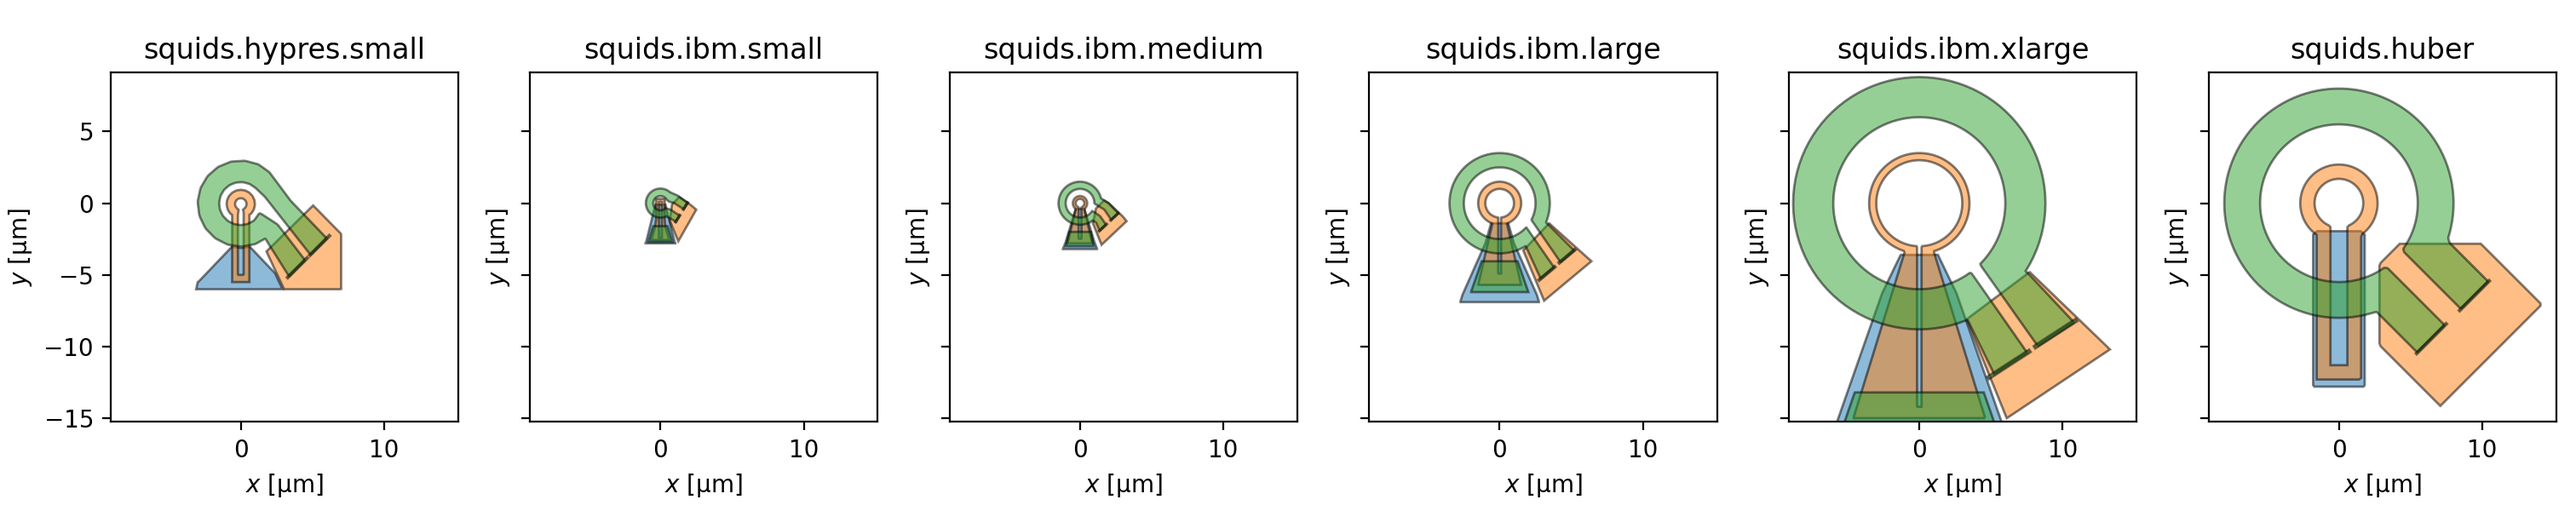
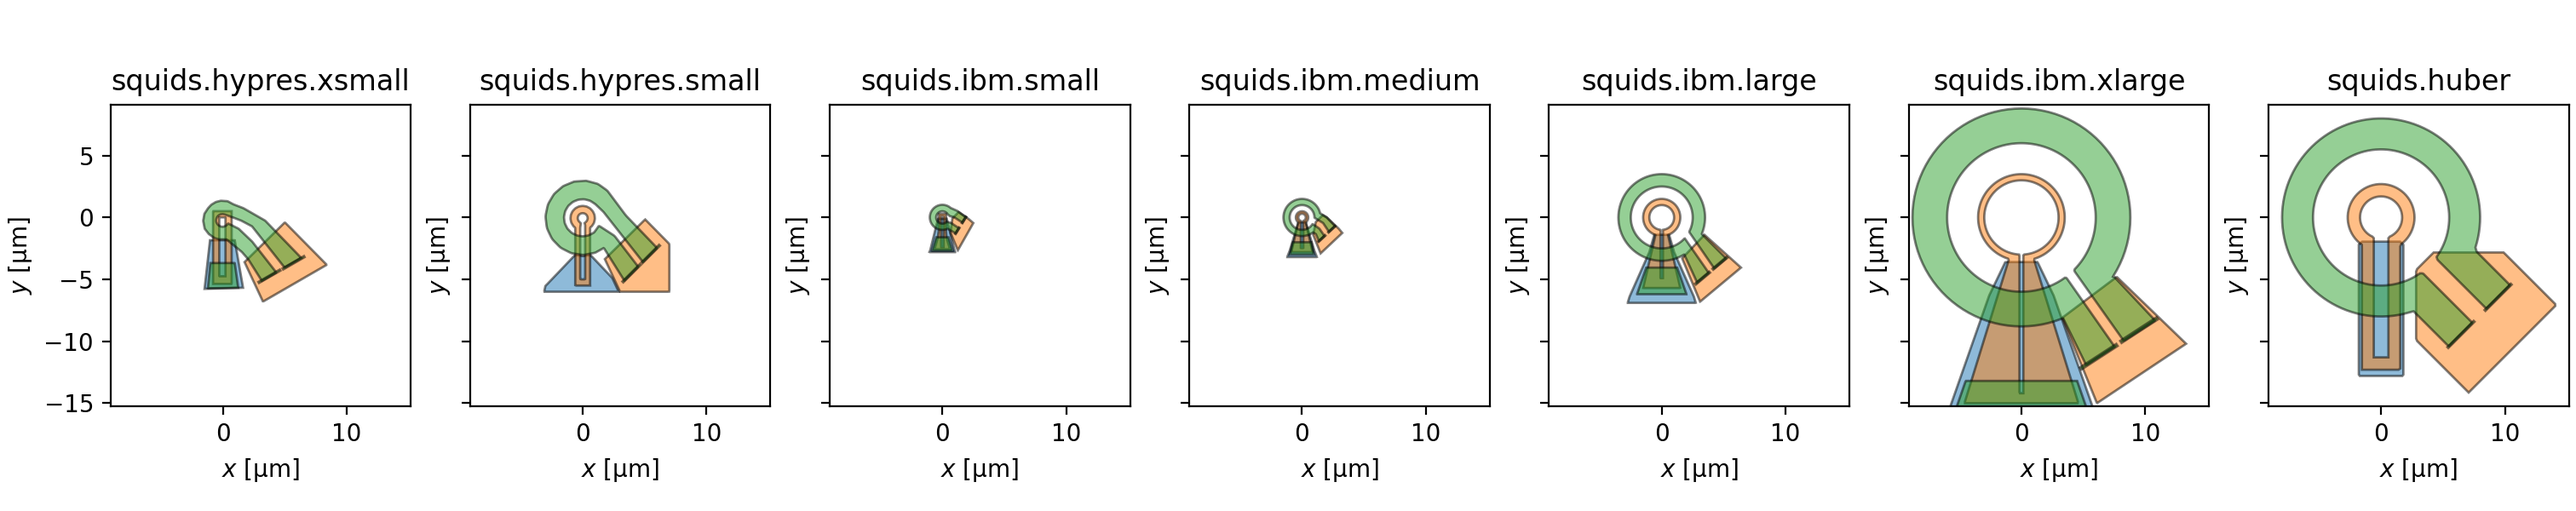
Add hypres.xsmall (0.25 micron) inner radius

diff --git a/squids/hypres/xsmall.py b/squids/hypres/xsmall.py
@@ -1,0 +1,88 @@
+import numpy as np
+import superscreen as sc
+from superscreen.geometry import box, close_curve
+
+from .layers import hypres_squid_layers
+
+
+def make_squid(with_terminals: bool = True, align_layers: str = "middle"):
+    layers = hypres_squid_layers(align=align_layers)
+    layer_mapping = {
+        "fc": "BE",
+        "fc_center": "BE",
+        "fc_shield": "W1",
+        "pl": "W1",
+        "pl_center": "W1",
+        "pl_shield": "W2",
+        "pl_shield2": "BE",
+    }
+
+    with np.load("squids/hypres/hypres-250nm.npz") as f:
+        polygons = dict(f)
+
+    films = {
+        name: polygons[name]
+        for name in ["fc", "fc_shield", "pl", "pl_shield", "pl_shield2"]
+    }
+    holes = {
+        "pl_center": np.array(
+            [
+                [0.2, -4.75],
+                [0.2, 0.01],
+                [-0.3, 0.01],
+                [-0.3, -4.75],
+                [0.2, -4.75],
+            ]
+        ),
+    }
+    films["pl"] = films["pl"][np.abs(films["pl"][:, 1]) > 0.05]
+    fc = sc.Polygon(points=polygons["fc"])
+    fc = fc.intersection(sc.Polygon(points=box(12)).rotate(30))
+    fc_points = np.roll(fc.points, -1, axis=0)
+    mask = np.ones(len(fc_points), dtype=bool)
+
+    if not with_terminals:
+        mask[4:27] = False
+        holes["fc_center"] = close_curve(fc_points[~mask])
+        holes["fc_center"][[0, -1], :] = (3.9, -3.92)
+        holes["fc_center"][-2, :] = (4.55, -3.5)
+    films["fc"] = close_curve(fc_points[mask])
+
+    fc_shield = sc.Polygon(points=films["fc_shield"])
+    fc_shield = fc_shield.intersection(sc.Polygon(points=box(15)).rotate(30))
+    films["fc_shield"] = fc_shield.points
+
+    films = {name: sc.Polygon(name, points=poly) for name, poly in films.items()}
+    holes = {name: sc.Polygon(name, points=poly) for name, poly in holes.items()}
+
+    terminals = None
+    if with_terminals:
+        terminals = {
+            "fc": [
+                sc.Polygon("source", points=box(2, 0.1))
+                .rotate(30)
+                .translate(dx=5.7, dy=-3.66),
+                sc.Polygon("drain", points=box(2, 0.1))
+                .rotate(30)
+                .translate(dx=3.75, dy=-4.75),
+            ],
+        }
+
+    for name, poly in films.items():
+        poly.layer = layer_mapping[name]
+        if with_terminals and name == "fc":
+            poly.points = poly.resample(401)
+        else:
+            poly.points = poly.resample(201)
+    for name, poly in holes.items():
+        poly.layer = layer_mapping[name]
+        poly.points = poly.resample(201)
+
+    return sc.Device(
+        "hypres_250nm",
+        layers=layers,
+        films=list(films.values()),
+        holes=list(holes.values()),
+        terminals=terminals,
+        length_units="um",
+    )

diff --git a/squids/mutuals.py b/squids/mutuals.py
@@ -25,6 +25,7 @@ if __name__ == "__main__":
     args = parser.parse_args()
 
     squid_funcs = {
+        "hypres-xsmall": hypres.xsmall.make_squid,
         "hypres-small": hypres.small.make_squid,
         "ibm-small": ibm.small.make_squid,
         "ibm-medium": ibm.medium.make_squid,
@@ -34,6 +35,7 @@ if __name__ == "__main__":
     }
 
     max_edge_lengths = {
+        "hypres-xsmall": 0.2,
         "hypres-small": 0.2,
         "ibm-small": 0.1,
         "ibm-medium": 0.1,

diff --git a/squids/show_all.py b/squids/show_all.py
@@ -22,6 +22,7 @@ if __name__ == "__main__":
     args = parser.parse_args()
 
     squid_funcs = [
+        hypres.xsmall.make_squid,
         hypres.small.make_squid,
         ibm.small.make_squid,
         ibm.medium.make_squid,

diff --git a/squids/hypres/__init__.py b/squids/hypres/__init__.py
@@ -1,1 +1,1 @@
-from . import layers, small
+from . import layers, small, xsmall

diff --git a/README.md b/README.md
@@ -35,39 +35,45 @@ python -m squids.mutuals
 Output:
 
 ```
+squids.hypres.xsmall
+--------------------
+197.47303402347075 magnetic_flux_quantum / ampere
+0.40834142391220707 picohenry
+-------------------------------------------------
+
 squids.hypres.small
 -------------------
-285.50878980023543 magnetic_flux_quantum / ampere
-0.590384739582329 picohenry
--------------------------------------------------
+297.8883597846232 magnetic_flux_quantum / ampere
+0.6159836334254493 picohenry
+------------------------------------------------
 
 squids.ibm.small
 ----------------
-72.8267388114595 magnetic_flux_quantum / ampere
-0.15059359558743207 picohenry
------------------------------------------------
+71.89056878633194 magnetic_flux_quantum / ampere
+0.14865775152155783 picohenry
+------------------------------------------------
 
 squids.ibm.medium
 -----------------
-158.75456595635796 magnetic_flux_quantum / ampere
-0.3282780650824389 picohenry
+160.24919637780062 magnetic_flux_quantum / ampere
+0.3313687124588389 picohenry
 -------------------------------------------------
 
 squids.ibm.large
 ----------------
-601.280775544196 magnetic_flux_quantum / ampere
-1.2433487400997283 picohenry
------------------------------------------------
+598.6426106111054 magnetic_flux_quantum / ampere
+1.2378934533532584 picohenry
+------------------------------------------------
 
 squids.ibm.xlarge
 -----------------
-1576.6470894734962 magnetic_flux_quantum / ampere
-3.2602442186922795 picohenry
+1572.2038424974053 magnetic_flux_quantum / ampere
+3.2510563221980426 picohenry
 -------------------------------------------------
 
 squids.huber
 ------------
-882.0365495331502 magnetic_flux_quantum / ampere
-1.823905032705215 picohenry
+890.0607255973631 magnetic_flux_quantum / ampere
+1.8404976955768126 picohenry
 ------------------------------------------------
 ```
